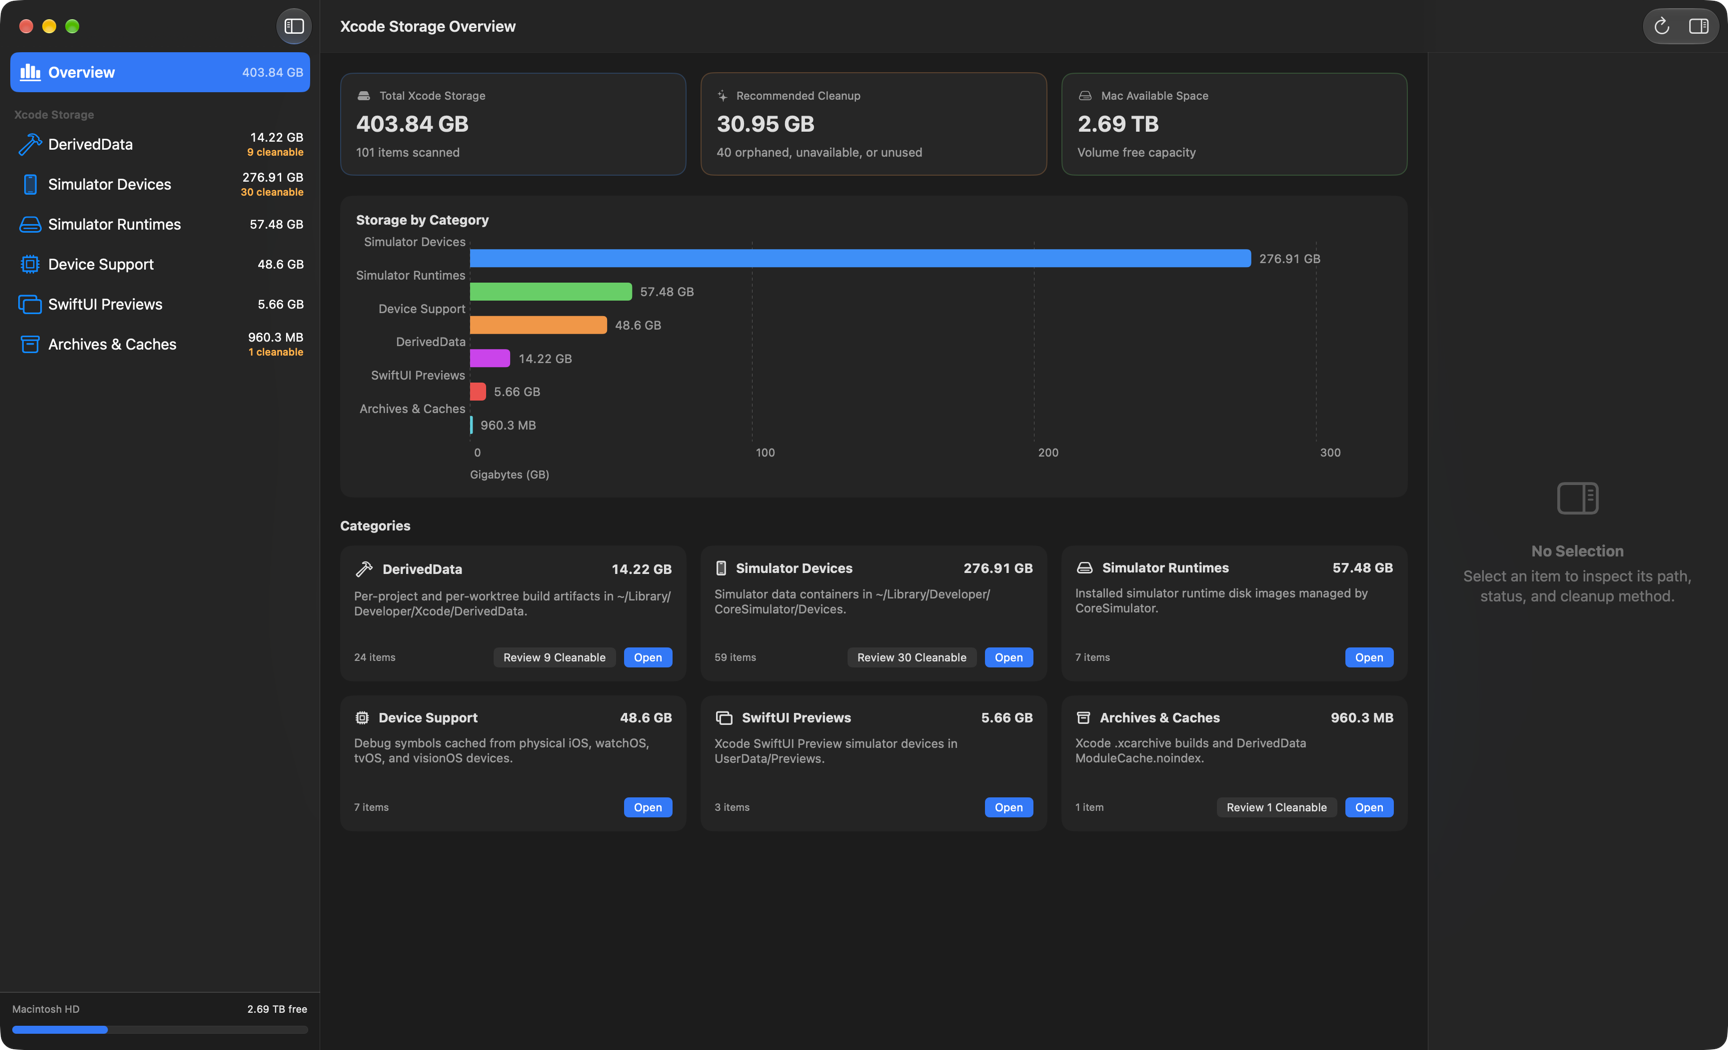
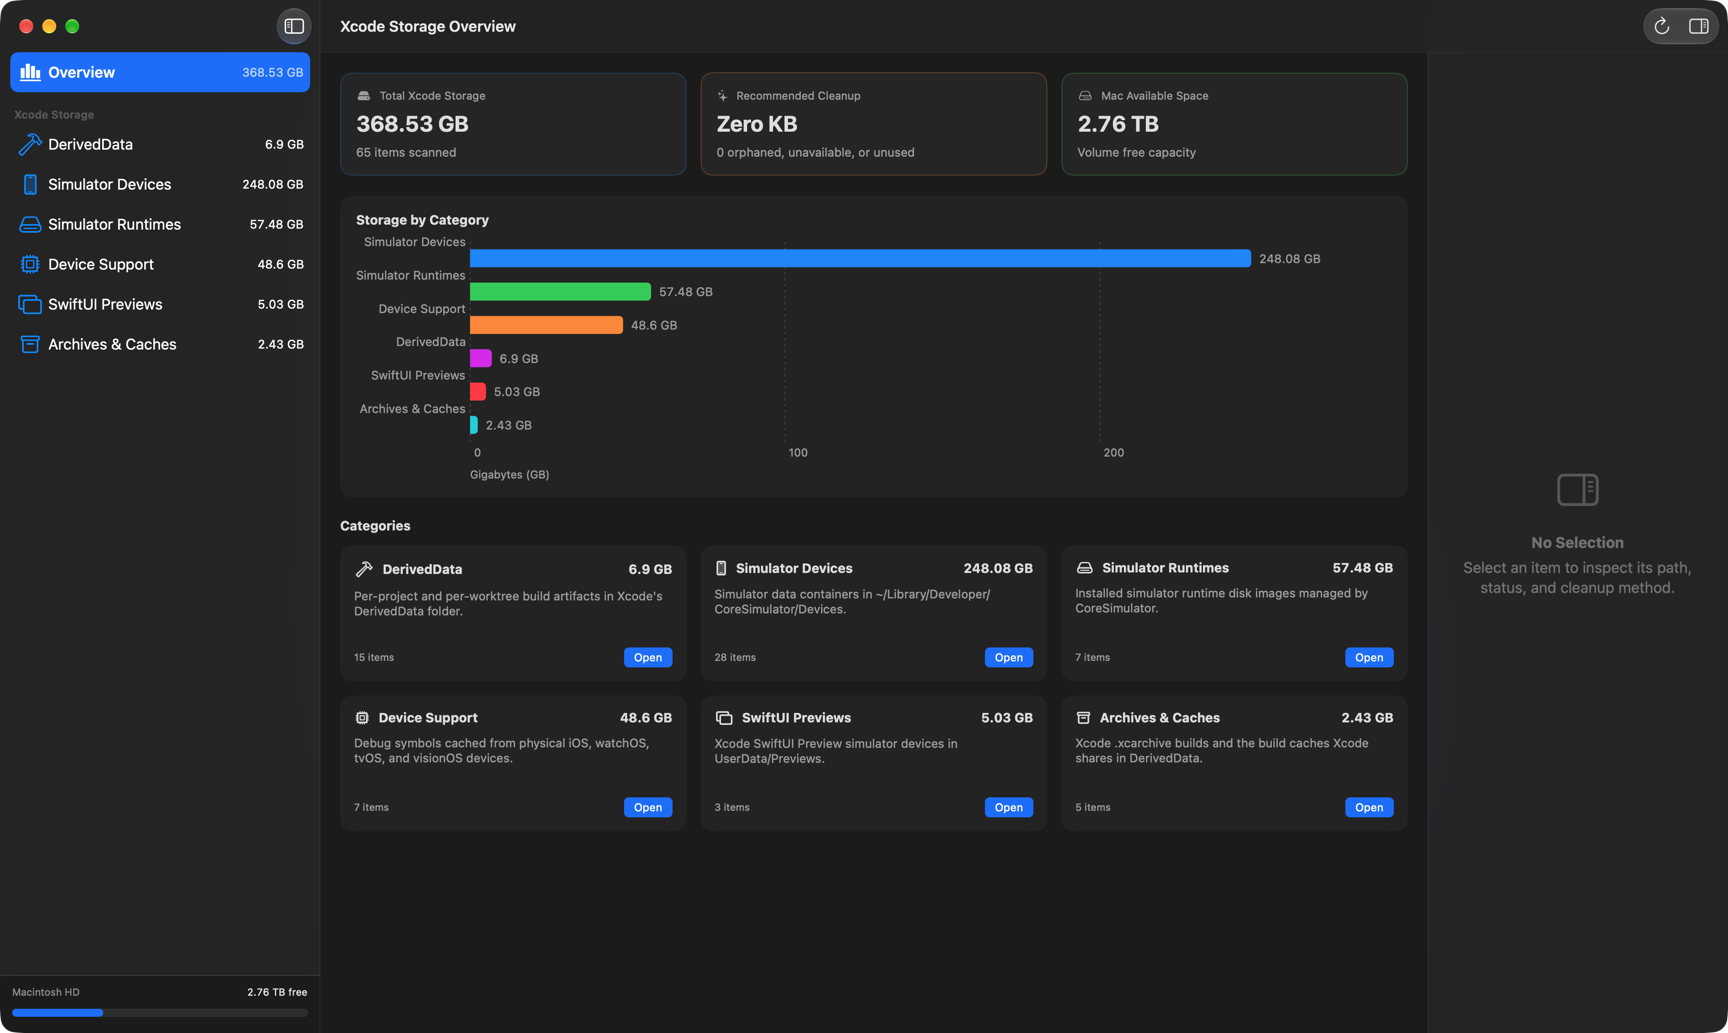
Call reclaimable items Recommended on the Overview cards and sidebar (#48)
* Call reclaimable items Recommended on the Overview cards and sidebar

The Overview card's button and the sidebar caption said "Cleanable"
while every other screen says "Recommended". They now use the one word,
and the glossary rules "cleanable" out.

Retake the README's Overview screenshot, which still showed the old
labels.

* Give the sidebar's recommended caption its own line

Beside the title, "N recommended" is wider than the size above it. At the
default sidebar width it truncated titles that fit when the caption read
"N cleanable", and at the narrowest width it wrapped onto two lines.

The caption now sits under the title and size with the row's full width,
so its length takes no room from the title.

* Name the status a simulator runtime can have in the caption test's steps

A runtime is recommended when it is unused; only simulator devices are
ever unavailable.

* Pin the locale of the rendered view tests

Sizes are formatted for the locale, and a region that spells out the unit
makes the size wide enough to truncate the title beside it, so the caption
test could fail on another Mac for a reason unrelated to the caption.

Record the Overview button's truncation at high counts as FU-003.

---------

diff --git a/XcodeSweepTests/AppSceneTests.swift b/XcodeSweepTests/AppSceneTests.swift
@@ -66,6 +66,53 @@ struct AppSceneTests {
         #expect(card.contains { $0.contains("Scan incomplete") }, "Recognized: \(card)")
     }
 
+    /// Verifies the Overview card and sidebar row name reclaimable items "Recommended", the word every other screen uses.
+    /// To replicate: scan a Mac with an unused DerivedData folder → read the DerivedData card's button and sidebar row.
+    @Test("The Overview card and sidebar row call reclaimable items Recommended")
+    func reclaimableCountIsLabelledRecommended() throws {
+        let metrics = CategoryMetrics(
+            category: .simulatorDevices, itemCount: 59, totalBytes: 276_910_000_000,
+            reclaimableCount: 30, reclaimableBytes: 2_000
+        )
+
+        // The narrowest card the Overview grid allows, and a row narrower than the narrowest sidebar
+        // gives (about 185), so a label that doesn't fit is truncated or wrapped and fails here.
+        let card = try recognizedText(in: CategoryCardView(
+            metrics: metrics, isScanning: false, failure: nil, onOpen: {}, onSelectReclaimable: {}
+        ).frame(width: 290))
+        let row = try recognizedText(in: SidebarCategoryRow(metrics: metrics, isScanning: false, failure: nil)
+            .frame(width: 180))
+
+        #expect(card.contains { $0.contains("Recommended") }, "Recognized: \(card)")
+        // The count and the word on one line; a wrapped caption reads as two.
+        #expect(row.contains { $0.hasSuffix(" recommended") }, "Recognized: \(row)")
+        #expect(!(card + row).contains { $0.localizedCaseInsensitiveContains("cleanable") }, "Recognized: \(card + row)")
+    }
+
+    /// Verifies the "N recommended" caption takes no room from the row's title: it once sat beside the title,
+    /// so the longer word truncated titles that fit before.
+    /// To replicate: scan a Mac with an unused simulator runtime → read its sidebar row at the default width.
+    @Test("A sidebar row's recommended caption leaves its title the same room")
+    func recommendedCaptionLeavesTitleItsRoom() throws {
+        let width: CGFloat = 240
+        let plain = CategoryMetrics(
+            category: .simulatorRuntimes, itemCount: 59, totalBytes: 276_910_000_000,
+            reclaimableCount: 0, reclaimableBytes: 0
+        )
+        let recommending = CategoryMetrics(
+            category: .simulatorRuntimes, itemCount: 59, totalBytes: 276_910_000_000,
+            reclaimableCount: 30, reclaimableBytes: 2_000
+        )
+
+        let plainRow = try recognizedText(in: SidebarCategoryRow(metrics: plain, isScanning: false, failure: nil)
+            .frame(width: width))
+        let recommendingRow = try recognizedText(in: SidebarCategoryRow(metrics: recommending, isScanning: false, failure: nil)
+            .frame(width: width))
+
+        #expect(plainRow.contains("Simulator Runtimes"), "Recognized: \(plainRow)")
+        #expect(recommendingRow.contains("Simulator Runtimes"), "Recognized: \(recommendingRow)")
+    }
+
     #if DEBUG && canImport(SwiftUI)
         /// A filter that hides every row must not hide why some rows may be missing.
         @Test("A filtered category view still explains a failed scan")
@@ -112,8 +159,13 @@ struct AppSceneTests {
     }
 
     private func recognizedText(in view: some View) throws -> [String] {
-        // Opaque, since recognition finds nothing on a transparent render.
-        let renderer = ImageRenderer(content: view.background(.white).environment(\.colorScheme, .light))
+        // Opaque, since recognition finds nothing on a transparent render. The locale is pinned because
+        // sizes are formatted for it, and a longer size changes what fits beside it.
+        let renderer = ImageRenderer(
+            content: view.background(.white)
+                .environment(\.colorScheme, .light)
+                .environment(\.locale, Locale(identifier: "en_US"))
+        )
         renderer.scale = 3
         let image = try #require(renderer.cgImage)
         let request = VNRecognizeTextRequest()

diff --git a/XcodeSweep/Inventory/SidebarView.swift b/XcodeSweep/Inventory/SidebarView.swift
@@ -59,27 +59,31 @@ struct SidebarCategoryRow: View {
     let failure: String?
 
     var body: some View {
-        HStack(spacing: 8) {
-            Label(metrics.category.title, systemImage: metrics.category.systemImage)
-                .lineLimit(1)
-            Spacer(minLength: 4)
-            if isScanning {
-                ProgressView()
-                    .controlSize(.small)
-            } else {
-                VStack(alignment: .trailing, spacing: 1) {
-                    Text(metrics.totalBytes, format: .byteCount(style: .file))
-                        .font(.callout.monospacedDigit())
-                        .foregroundStyle(metrics.totalBytes > 0 ? .primary : .secondary)
-                    if let failure {
-                        ScanFailureBadge(failure: failure)
-                    }
-                    if metrics.reclaimableCount > 0 {
-                        Text("\(metrics.reclaimableCount) cleanable")
-                            .font(.caption2)
-                            .foregroundStyle(.orange)
+        // The caption gets the row's full width below the title; beside it, a caption wider than the
+        // size would truncate the title.
+        VStack(alignment: .trailing, spacing: 1) {
+            HStack(spacing: 8) {
+                Label(metrics.category.title, systemImage: metrics.category.systemImage)
+                    .lineLimit(1)
+                Spacer(minLength: 4)
+                if isScanning {
+                    ProgressView()
+                        .controlSize(.small)
+                } else {
+                    VStack(alignment: .trailing, spacing: 1) {
+                        Text(metrics.totalBytes, format: .byteCount(style: .file))
+                            .font(.callout.monospacedDigit())
+                            .foregroundStyle(metrics.totalBytes > 0 ? .primary : .secondary)
+                        if let failure {
+                            ScanFailureBadge(failure: failure)
+                        }
                     }
                 }
+            }
+            if !isScanning, metrics.reclaimableCount > 0 {
+                Text("\(metrics.reclaimableCount) recommended")
+                    .font(.caption2)
+                    .foregroundStyle(.orange)
             }
         }
     }

diff --git a/XcodeSweepTests/XcodeSweepStoreTests.swift b/XcodeSweepTests/XcodeSweepStoreTests.swift
@@ -386,10 +386,10 @@ struct XcodeSweepStoreTests {
         #expect(store.selectedItemIDs == selection)
     }
 
-    /// Verifies "Review Cleanable" lands on the category with Recommended applied, no stale search, and reclaimable
+    /// Verifies "Review Recommended" lands on the category with Recommended applied, no stale search, and reclaimable
     /// items
     /// selected.
-    /// To replicate: in Simulator Devices type a search → go to Overview → click "Review N Cleanable" on DerivedData.
+    /// To replicate: in Simulator Devices type a search → go to Overview → click "Review N Recommended" on DerivedData.
     @Test("Opening a category for cleanup applies Recommended and selects reclaimable items")
     func openCategoryAndSelectReclaimable_fromAnotherCategory_appliesReclaimableFilterAndSelects() async throws {
         let (store, fixture) = try await makeScannedStore()

diff --git a/XcodeSweep/Inventory/OverviewView.swift b/XcodeSweep/Inventory/OverviewView.swift
@@ -251,7 +251,7 @@ struct CategoryCardView: View {
                 Spacer()
 
                 if metrics.reclaimableCount > 0 {
-                    Button("Review \(metrics.reclaimableCount) Cleanable") {
+                    Button("Review \(metrics.reclaimableCount) Recommended") {
                         onSelectReclaimable()
                     }
                     .buttonStyle(.bordered)

diff --git a/follow-ups.md b/follow-ups.md
@@ -31,3 +31,18 @@ Non-blocking findings recorded during review. None of these block the change tha
 - **Why it does not block**: Each is a one-line standard SwiftUI modifier or string prefix over
   tested model text, and nothing depends on it.
 - **Raised by**: Codex (gpt-6.2-astra), finding UI-1.
+
+## FU-003 — "Review N Recommended" truncates on the narrowest card with 100 or more recommended
+
+- **Severity**: FOLLOW-UP
+- **Target**: PR #48 (`rename-cleanable-to-recommended`), head `edd5334`, snapshot tree `eaa9ed4`
+- **Source**: `XcodeSweep/Inventory/OverviewView.swift:246`
+- **Issue**: At the Overview grid's 290-point minimum card width, 159 items with 130 recommended
+  renders "Review 130 Recommend…". With 1,059 items and 999 recommended the button stays truncated
+  at 300 points and is whole at 320. "Review N Cleanable" fit in each case.
+- **Next action**: Let the card's footer reflow when its controls don't fit, and cover 159 items
+  with 130 recommended at 290 points in `AppSceneTests`.
+- **Why it does not block**: It needs 100 or more recommended items in one category and a card
+  within 10 to 30 points of its minimum width, and the truncated label still shows the count and
+  "Recommend…".
+- **Raised by**: The coordinator's layout probe; graded by Codex (gpt-6.2-astra), finding UI-1.

diff --git a/GLOSSARY.md b/GLOSSARY.md
@@ -14,7 +14,7 @@ _Avoid_: ScanSummary, summary
 
 **Reclaimable**:
 An item that is deletable and has a reclaimable status: orphaned, unavailable, or unused. The UI labels this "Recommended".
-_Avoid_: recommended, cleanup candidate (in code; "Recommended" is UI text only)
+_Avoid_: recommended, cleanup candidate (in code; "Recommended" is UI text only); cleanable (anywhere)
 
 **Protected**:
 A selected item that cannot be deleted, such as a system-managed simulator runtime. A deletion plan counts protected items but never deletes them.
